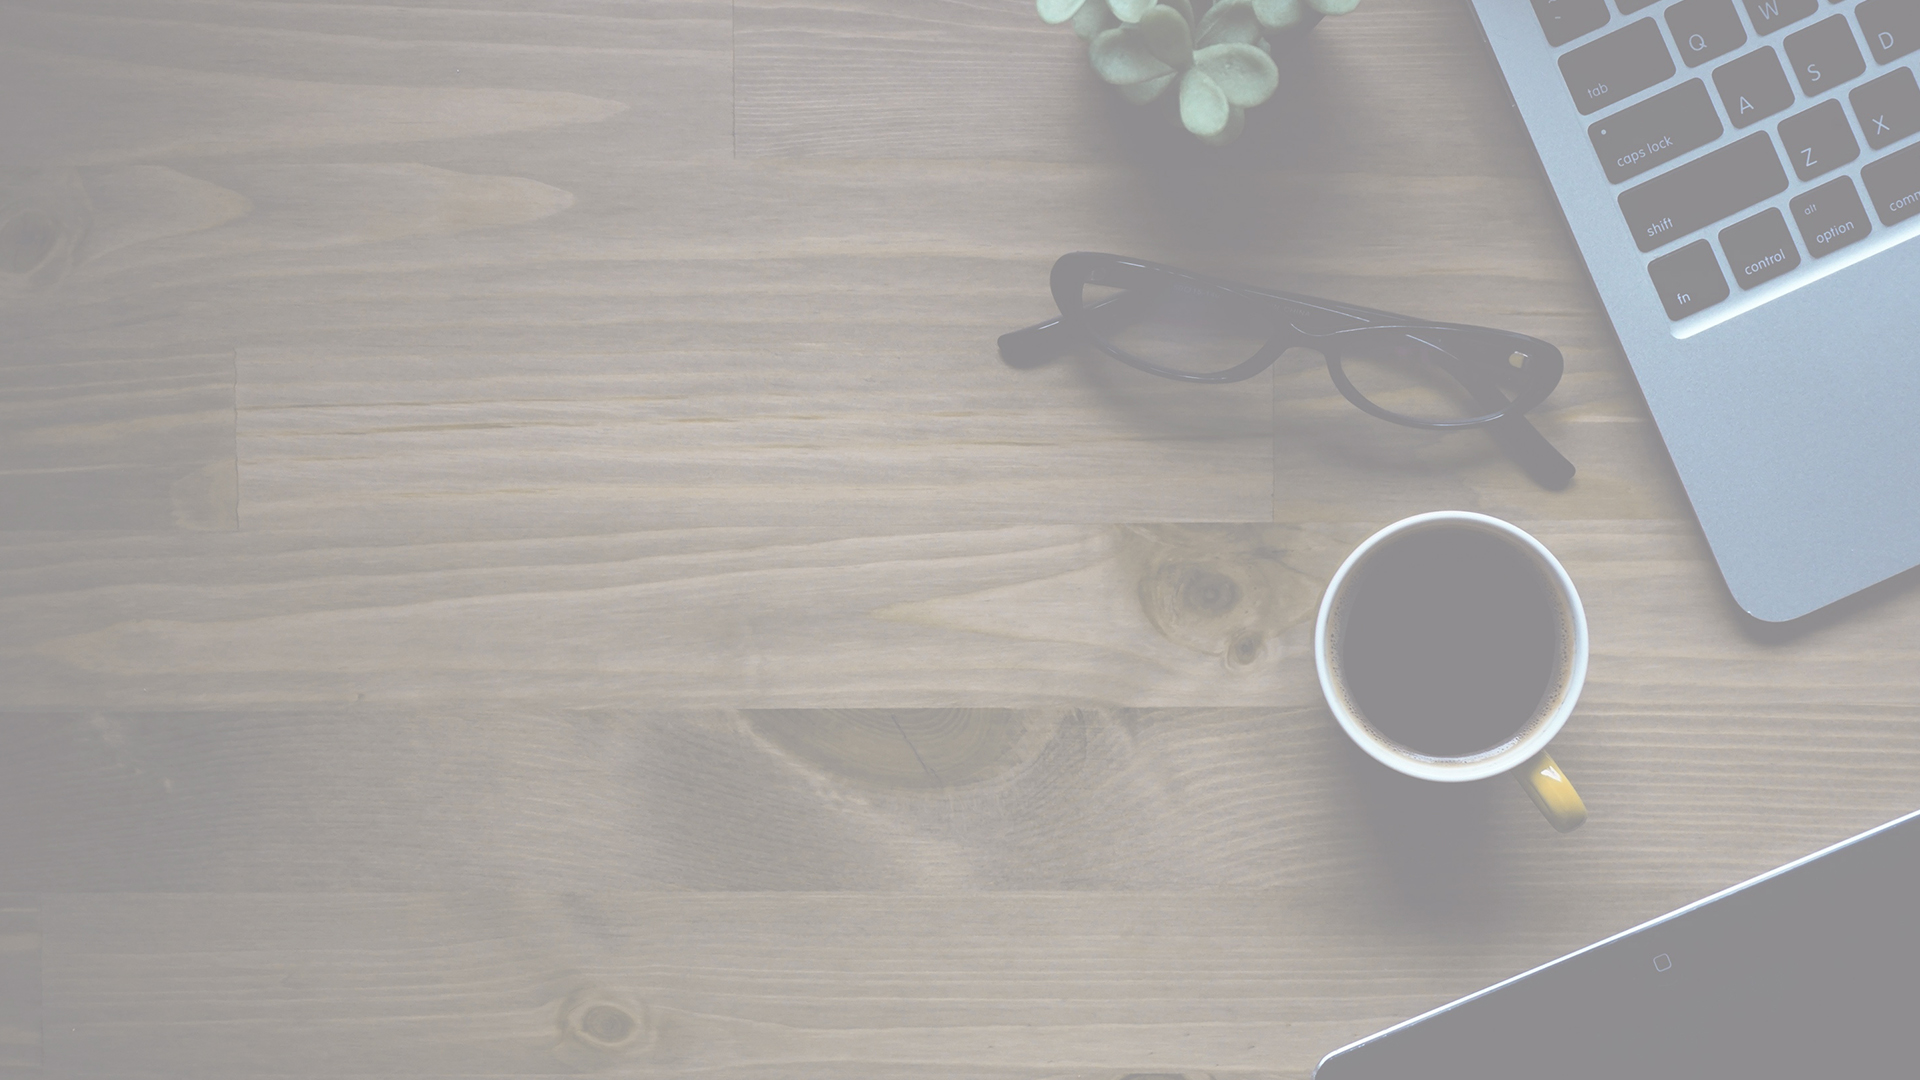
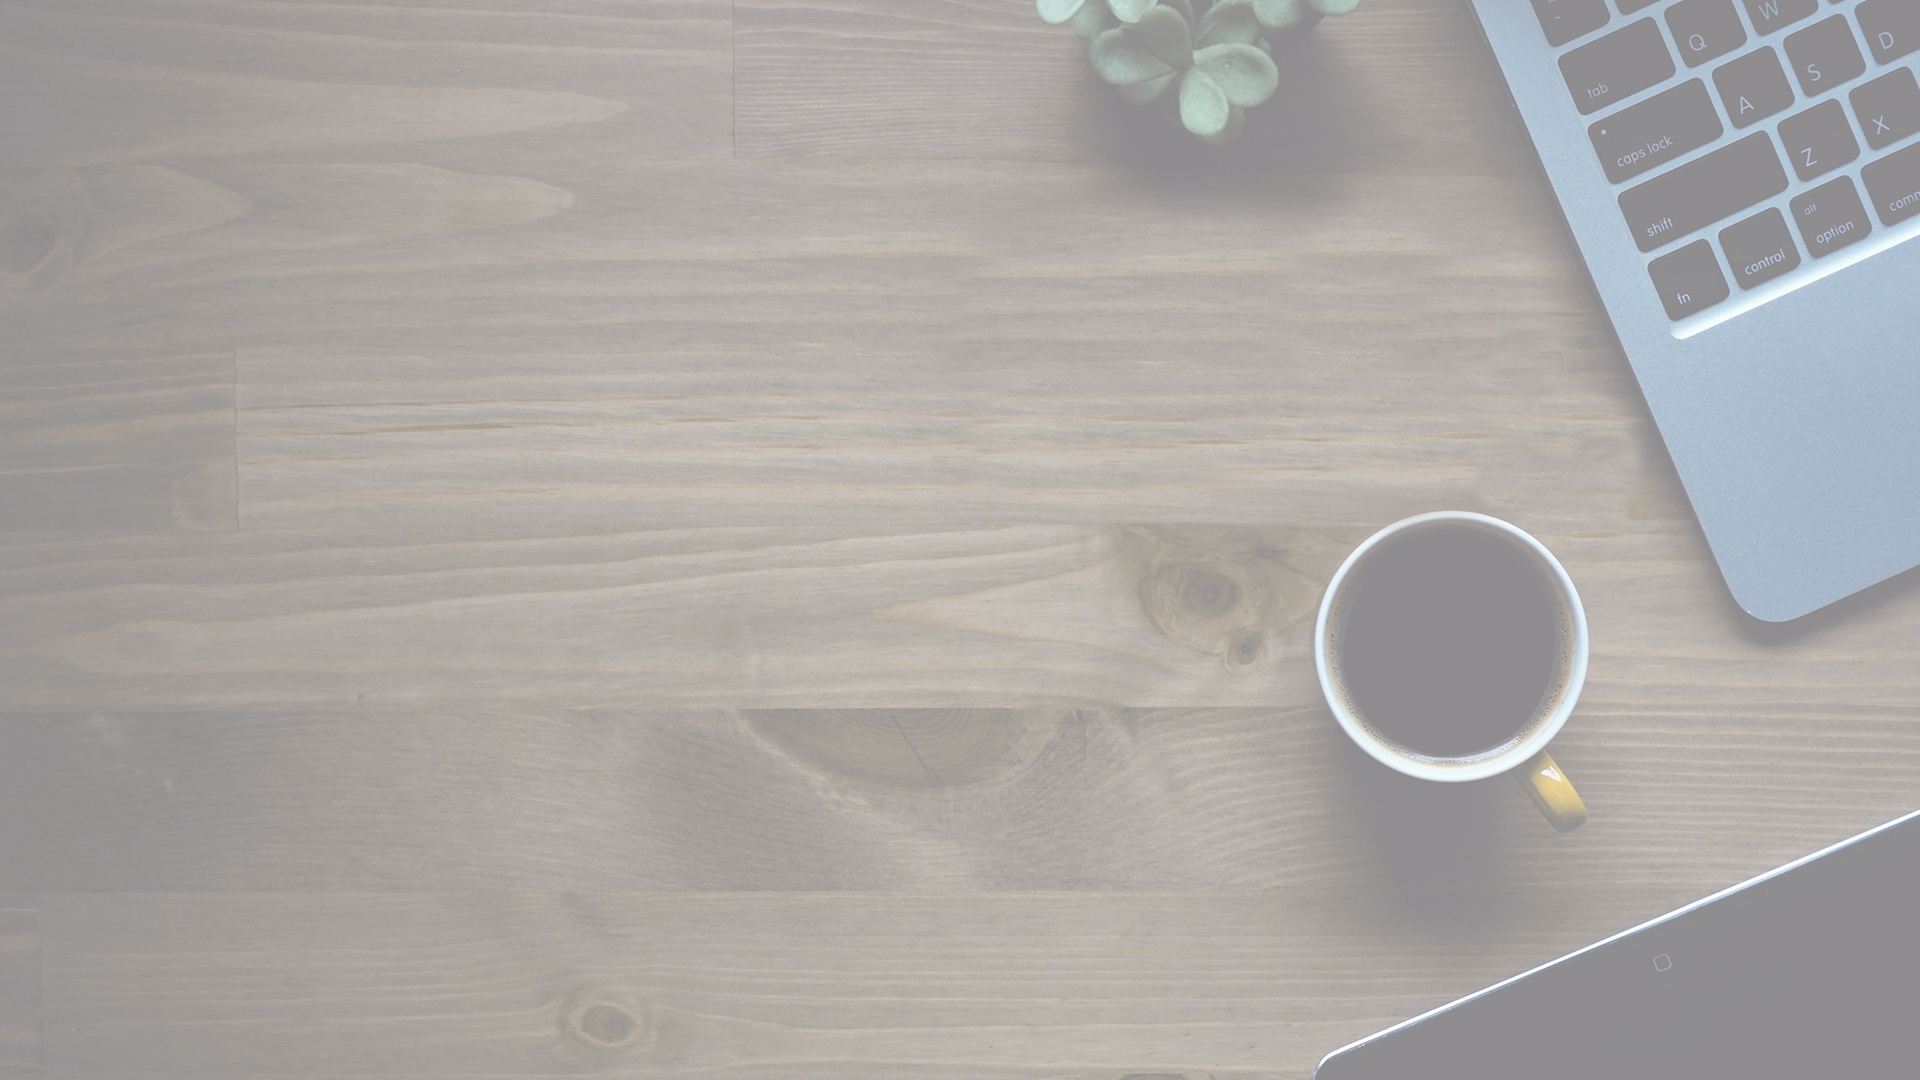
Modified header img and text

Changed region(s): [[0.5, 0.1833, 0.8438, 0.4583]]

diff --git a/app/assets/stylesheets/main.scss b/app/assets/stylesheets/main.scss
@@ -52,7 +52,7 @@ p{
 
 
 .main-header{
-  background-image: url('/assets/main-header.jpg');
+  background-image: url('/assets/main-header1.jpg');
   background-attachment: scroll;
   background-position: center center;
   -webkit-background-size: cover;
@@ -63,17 +63,20 @@ p{
   color: white;
   height: 100vh;
   margin-top:-100px;
-  .container .row .col.s12{
+  .container .row .col.s8{
     padding-top: 30vh;
 
     h2{
       letter-spacing: 5px;
       font-weight: 100;
-    }
-
-    h4{
-      font-weight: 300;
-      letter-spacing: 2px;
+      span{
+        color: $salmon;
+      }
+      .header-bold{
+        font-style: italic;
+        font-weight: 400;
+        color: #fff;
+      }
     }
   }
 }
@@ -84,13 +87,13 @@ p{
 }
 
 @media #{$xlarge-and-down} {
-  .main-header .container .row .col.s12{
+  .main-header .container .row .col.s8{
     padding-top: 40vh;
   }
 }
 
 @media #{$xxlarge-and-up} {
-  .main-header .container .row .col.s12{
+  .main-header .container .row .col.s8{
     padding-top: 35vh;
     .col.s3 h4.left-align{
       font-weight: 100;
